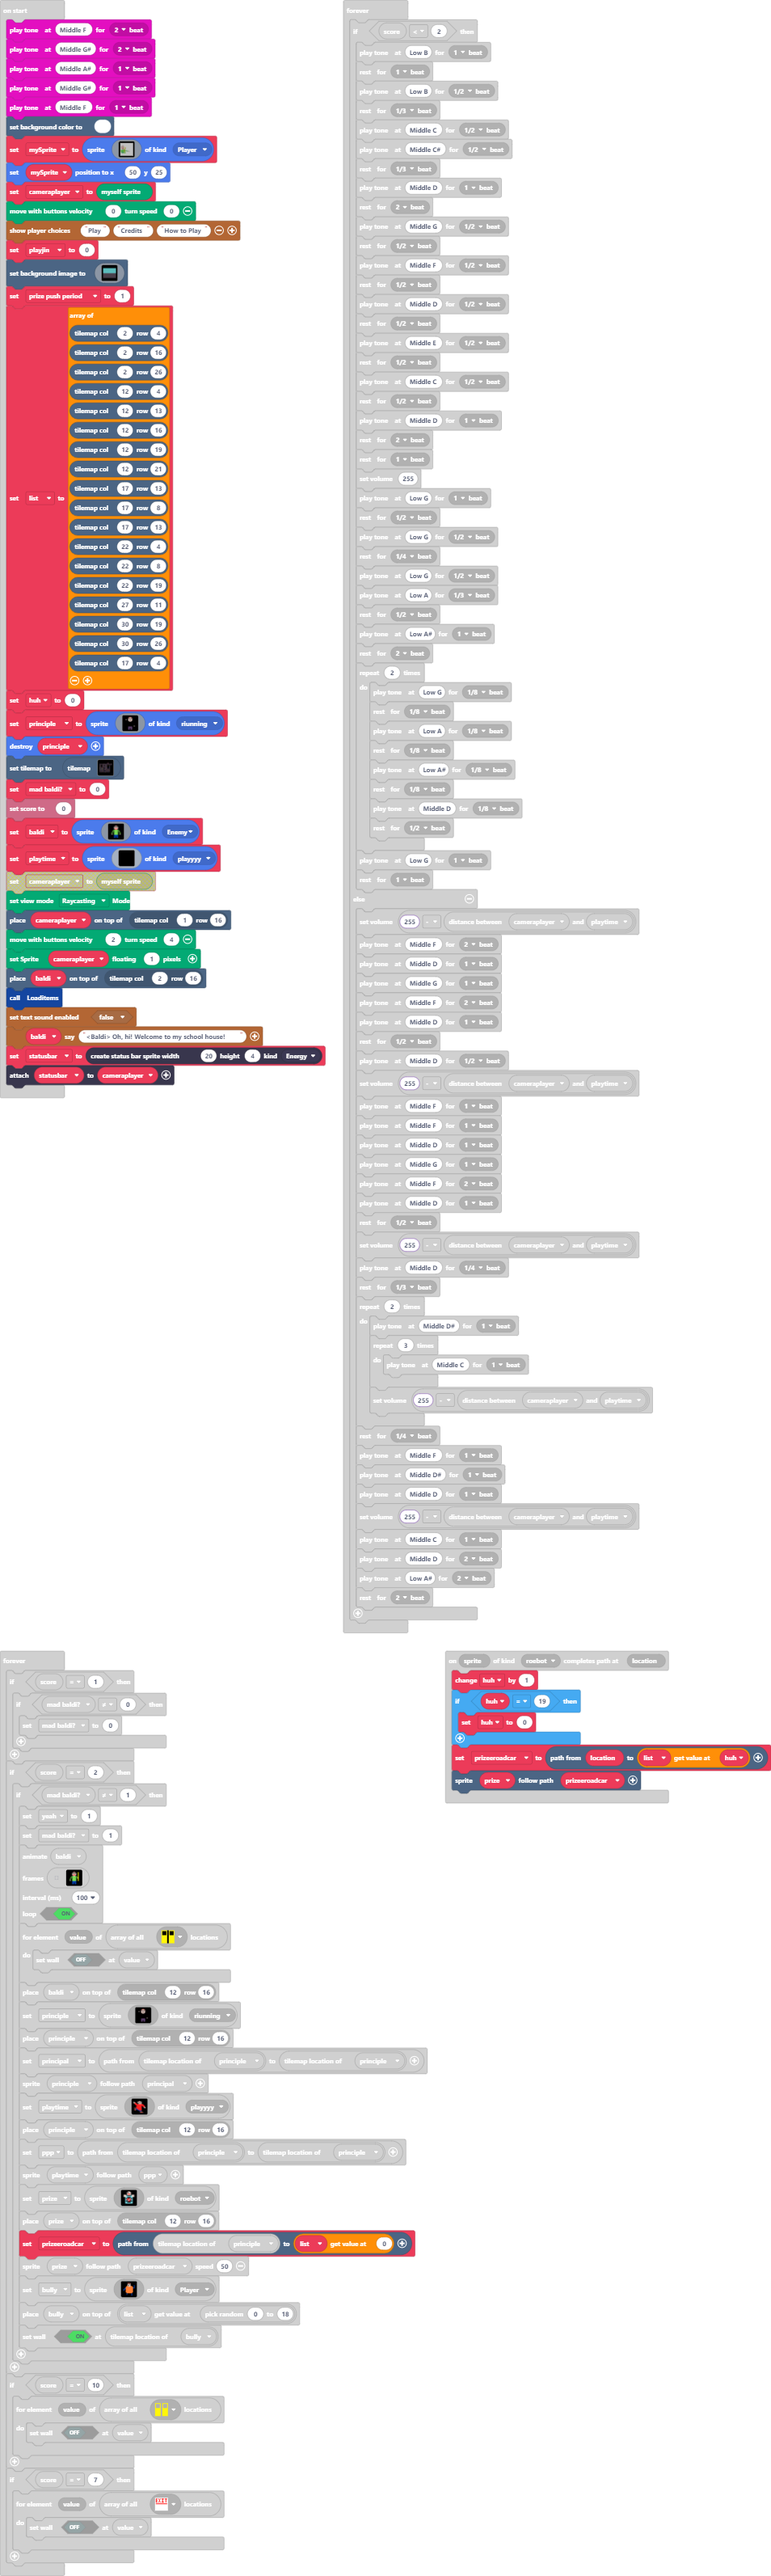
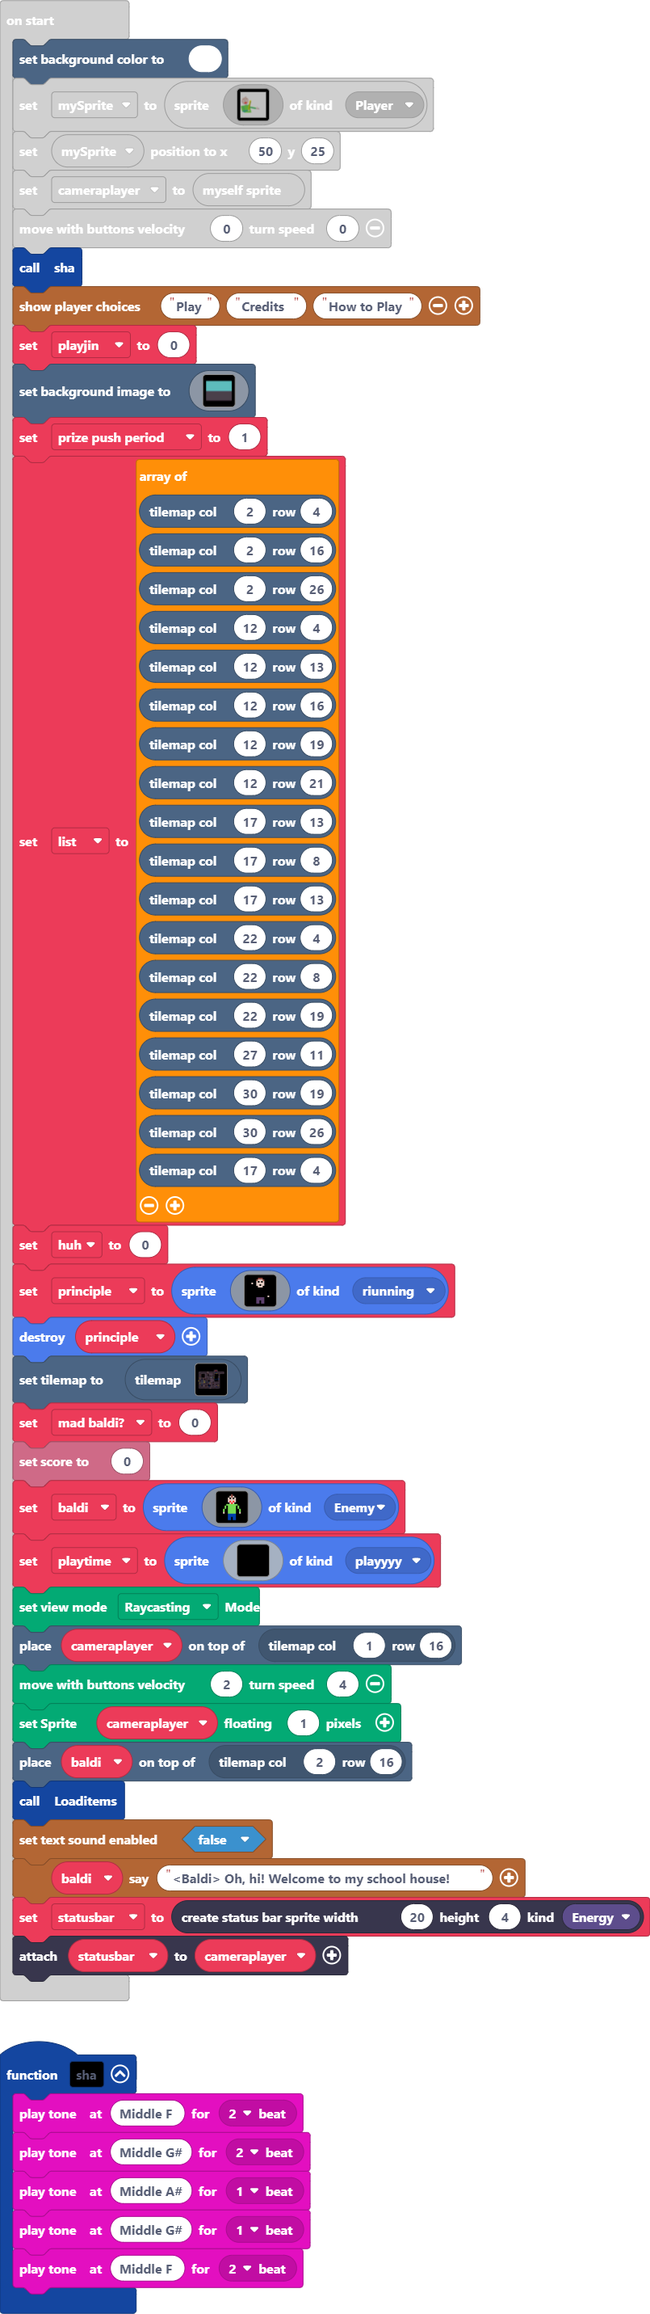
Update main.blocks, main.ts

diff --git a/main.ts b/main.ts
@@ -52,6 +52,13 @@ scene.onPathCompletion(SpriteKind.riunning, function (sprite, location) {
     principal = scene.aStar(location, list[randint(0, 18)])
     scene.followPath(principle, principal)
 })
+function sha () {
+    music.playTone(349, music.beat(BeatFraction.Double))
+    music.playTone(415, music.beat(BeatFraction.Double))
+    music.playTone(466, music.beat(BeatFraction.Whole))
+    music.playTone(415, music.beat(BeatFraction.Whole))
+    music.playTone(349, music.beat(BeatFraction.Double))
+}
 sprites.onOverlap(SpriteKind.Player, SpriteKind.playyyy, function (sprite, otherSprite) {
     Render.moveWithController(0)
     for (let index = 0; index < 5; index++) {
@@ -249,16 +256,12 @@ let huh = 0
 let list: tiles.Location[] = []
 let prize_push_period = 0
 let cameraplayer: Sprite = null
-music.playTone(349, music.beat(BeatFraction.Double))
-music.playTone(415, music.beat(BeatFraction.Double))
-music.playTone(466, music.beat(BeatFraction.Whole))
-music.playTone(415, music.beat(BeatFraction.Whole))
-music.playTone(349, music.beat(BeatFraction.Whole))
 scene.setBackgroundColor(1)
 let mySprite = sprites.create(assets.image`TITLE SCREEN`, SpriteKind.Player)
 mySprite.setPosition(50, 25)
 cameraplayer = Render.getRenderSpriteVariable()
 Render.moveWithController(0, 0)
+sha()
 story.showPlayerChoices("Play", "Credits", "How to Play")
 let playjin = 0
 scene.setBackgroundImage(img`
